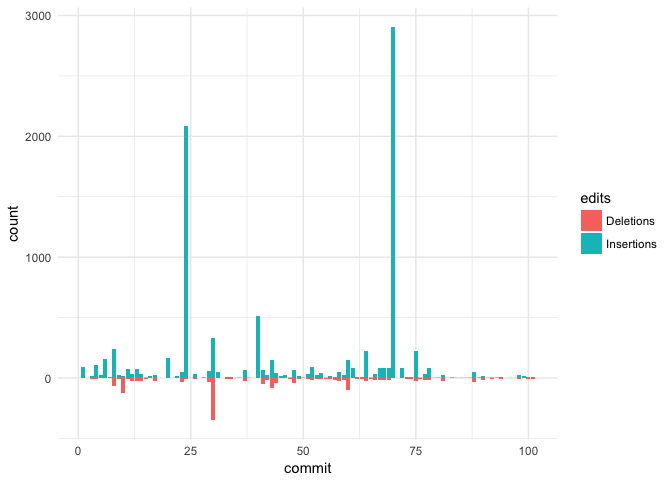
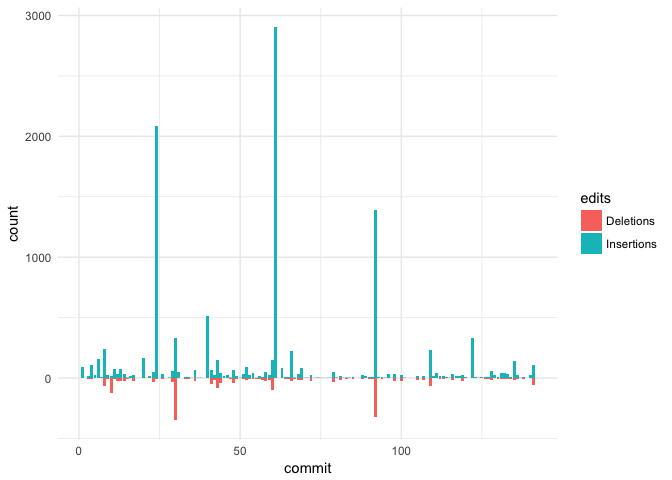
type stability

diff --git a/README.md b/README.md
@@ -48,24 +48,24 @@ library("forcats")
 We can obtain a parsed log like this:
 
 ``` r
+init_gitsum()
 tbl <- parse_log_detailed() %>%
-  arrange(date) %>%
   select(short_hash, short_message, total_files_changed, nested)
 tbl 
-#> # A tibble: 140 x 4
+#> # A tibble: 141 x 4
 #>    short_hash short_message        total_files_changed nested           
-#>    <chr>      <chr>                              <dbl> <list>           
-#>  1 243f       initial commit                   7.00000 <tibble [7 × 5]> 
-#>  2 f8ee       add log example data             1.00000 <tibble [1 × 5]> 
-#>  3 6328       add parents                      3.00000 <tibble [3 × 5]> 
-#>  4 dfab       intermediate                     1.00000 <tibble [1 × 5]> 
-#>  5 7825       add licence                      1.00000 <tibble [1 × 5]> 
-#>  6 2ac3       add readme                       2.00000 <tibble [2 × 5]> 
-#>  7 7a2a       document log data                1.00000 <tibble [1 × 5]> 
-#>  8 943c       add helpfiles                   10.0000  <tibble [10 × 5]>
-#>  9 917e       update infrastructur             3.00000 <tibble [3 × 5]> 
-#> 10 4fc0       remove garbage                   6.00000 <tibble [6 × 5]> 
-#> # ... with 130 more rows
+#>    <chr>      <chr>                              <int> <list>           
+#>  1 243f       initial commit                         7 <tibble [7 × 5]> 
+#>  2 f8ee       add log example data                   1 <tibble [1 × 5]> 
+#>  3 6328       add parents                            3 <tibble [3 × 5]> 
+#>  4 dfab       intermediate                           1 <tibble [1 × 5]> 
+#>  5 7825       add licence                            1 <tibble [1 × 5]> 
+#>  6 2ac3       add readme                             2 <tibble [2 × 5]> 
+#>  7 7a2a       document log data                      1 <tibble [1 × 5]> 
+#>  8 943c       add helpfiles                         10 <tibble [10 × 5]>
+#>  9 917e       update infrastructur                   3 <tibble [3 × 5]> 
+#> 10 4fc0       remove garbage                         6 <tibble [6 × 5]> 
+#> # ... with 131 more rows
 ```
 
 Since we used `parse_log_detailed()`, there is detailed file-specific
@@ -74,11 +74,11 @@ information available for every commit:
 ``` r
 tbl$nested[[3]]
 #> # A tibble: 3 x 5
-#>   changed_file    edits insertions deletions is_exact
-#>   <chr>           <dbl>      <dbl>     <dbl> <lgl>   
-#> 1 DESCRIPTION   6.00000    5.00000   1.00000 T       
-#> 2 NAMESPACE     3.00000    2.00000   1.00000 T       
-#> 3 R/get_log.R  19.0000    11.0000    8.00000 T
+#>   changed_file edits insertions deletions is_exact
+#>   <chr>        <int>      <int>     <int> <lgl>   
+#> 1 DESCRIPTION      1          1         0 F       
+#> 2 NAMESPACE        1          1         0 F       
+#> 3 R/get_log.R      2          1         1 F
 ```
 
 Since the data has such a high resolution, various graphs, tables etc.
@@ -100,7 +100,7 @@ group_by(author_name) %>%
 #>   <chr>           <int>
 #> 1 Jon Calder          2
 #> 2 jonmcalder          6
-#> 3 Lorenz Walthert   132
+#> 3 Lorenz Walthert   133
 ```
 
 We can also investigate how the number of lines of each file in the R
@@ -111,7 +111,7 @@ changed in at least five commits.
 
 ``` r
 lines <- log %>%
-  unnest() %>%
+  unnest_log() %>%
   set_changed_file_to_latest_name() %>%
   add_line_history()
 #> The following name changes were identified (11 in total):
@@ -145,7 +145,7 @@ Next, we want to see which files were contained in most commits:
 
 ``` r
 log %>%
-  unnest(nested) %>% # unnest the tibble
+  unnest_log() %>%
   mutate(changed_file = fct_lump(fct_infreq(changed_file), n = 10)) %>%
   filter(changed_file != "Other") %>%
   ggplot(aes(x = changed_file)) + geom_bar() + coord_flip() + 
